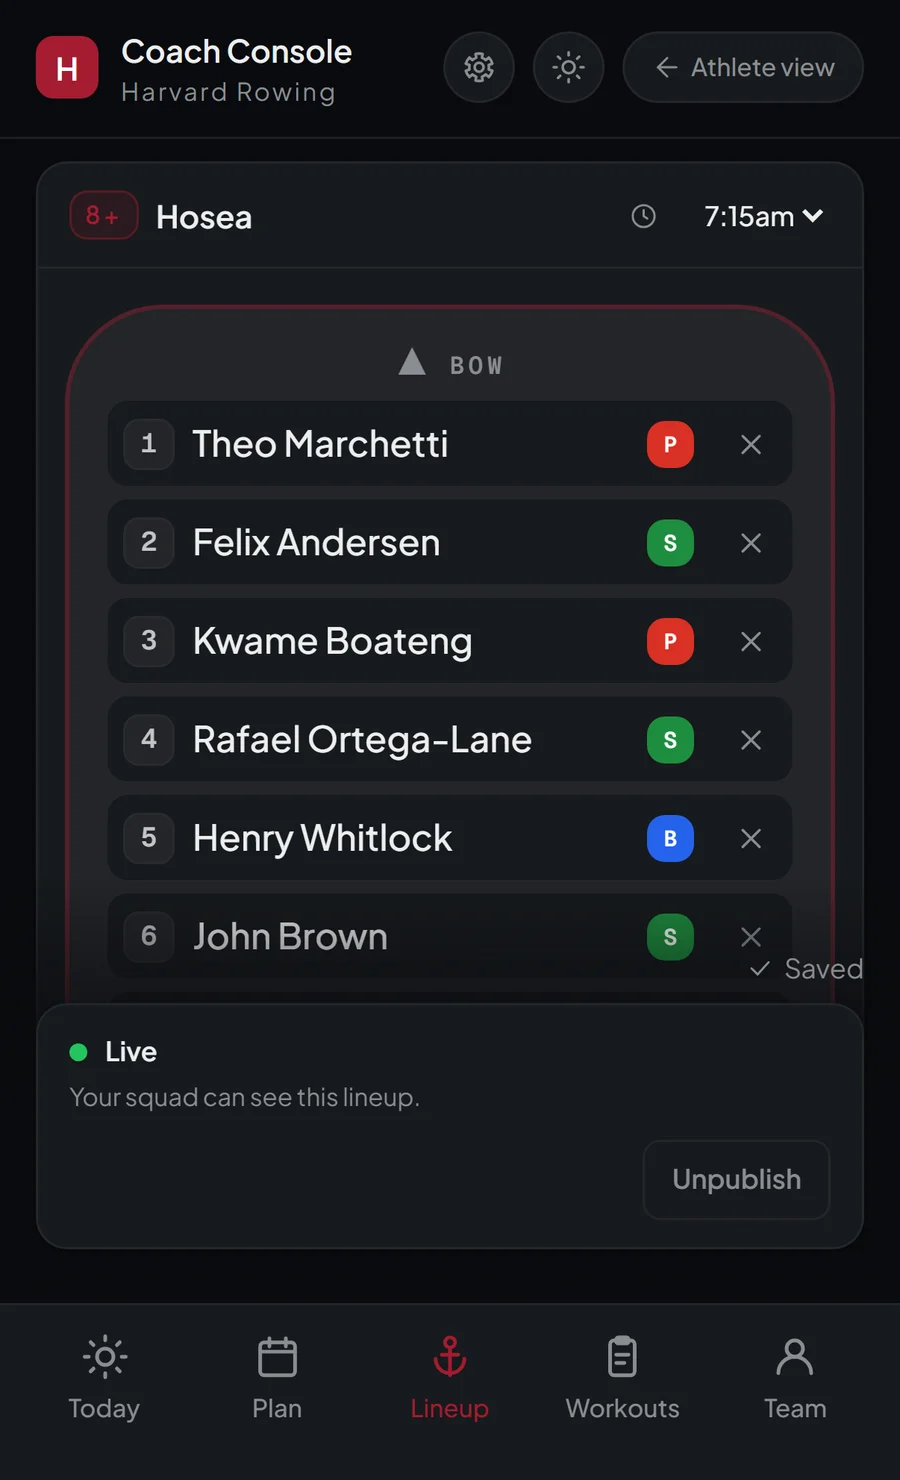
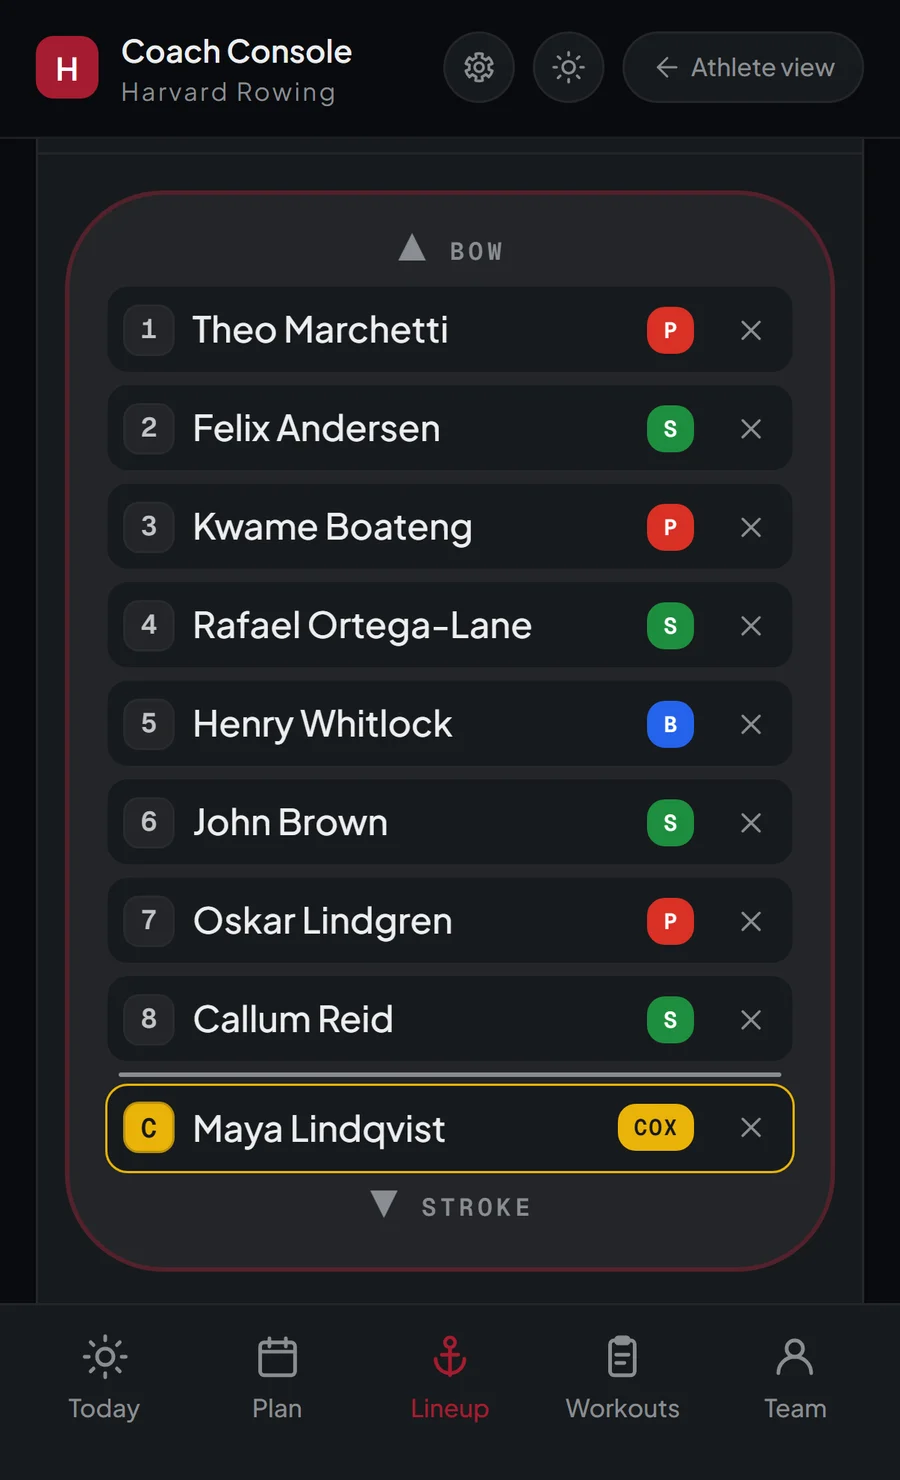
feat(landing): the lineup frames lose the publish bar and show the whole eight
Owner, 2026-09-17: "smaz to live to je strasne velke a nechci to tam mit a pak
to reshootni."

The Lineup screen's publish panel — "Live · Your squad can see this lineup ·
Unpublish", with the fixed "Saved" line above it — floats over the bottom third
of the screen, so both coach frames spent a quarter of their height on it and
showed half a boat. It is hidden for the shoot.

What that buys: step 3 is now the WHOLE crew in one frame, bow to cox, with the
hull's own caps at both ends; step 4 keeps the shut Video tab but carries five
more seats above the boat, the oars and the note. The "Saved" chip went with
it, so the Video tab's chevron is no longer half covered. Alt text follows.

diff --git a/lib/landingCopy.ts b/lib/landingCopy.ts
@@ -1100,9 +1100,15 @@ export const coach = {
          lineup at all — the console's Lineup tab bounces to Plan while the
          console tour is walking, so the script photographed the training-block
          list under a step titled "Build lineups". The tour is skipped first
-         now, and this is the boat itself: the Hosea eight, seat by seat. */
+         now, and this is the boat itself: the Hosea eight, seat by seat.
+
+         NO PUBLISH BAR IN EITHER FRAME (owner 2026-09-17: "smaz to live to je
+         strasne velke"). The screen's own "Live · Your squad can see this
+         lineup · Unpublish" panel floats over the bottom third and, with the
+         fixed "Saved" line above it, left barely half a boat in shot. It is
+         hidden for the shoot, so the whole eight fits — bow to cox. */
       shot: "coach-4-lineup.webp",
-      alt: "The Lineup screen: the Hosea eight seated from bow, every seat tagged port, starboard or both, with the lineup live to the squad",
+      alt: "The Lineup screen: the Hosea eight seated bow to stroke with the cox at the end, every seat tagged port, starboard or both",
     },
     {
       n: "4",
@@ -1132,7 +1138,7 @@ export const coach = {
          the strip is the one row it is in the app ("Video" and a chevron), so
          the same frame carries the end of the lineup, the boat and the oars,
          and the tab the footage lives behind. Shot from production as the demo
-         coach, light and dark. */
+         coach, light and dark, with the publish bar hidden (see step 3). */
       shot: "coach-4-video.webp",
       alt: "The foot of the boat's card on the Lineup screen: the last seats and the cox, the boat's name, its oars and the crew note, and under them the shut Video tab",
     },
